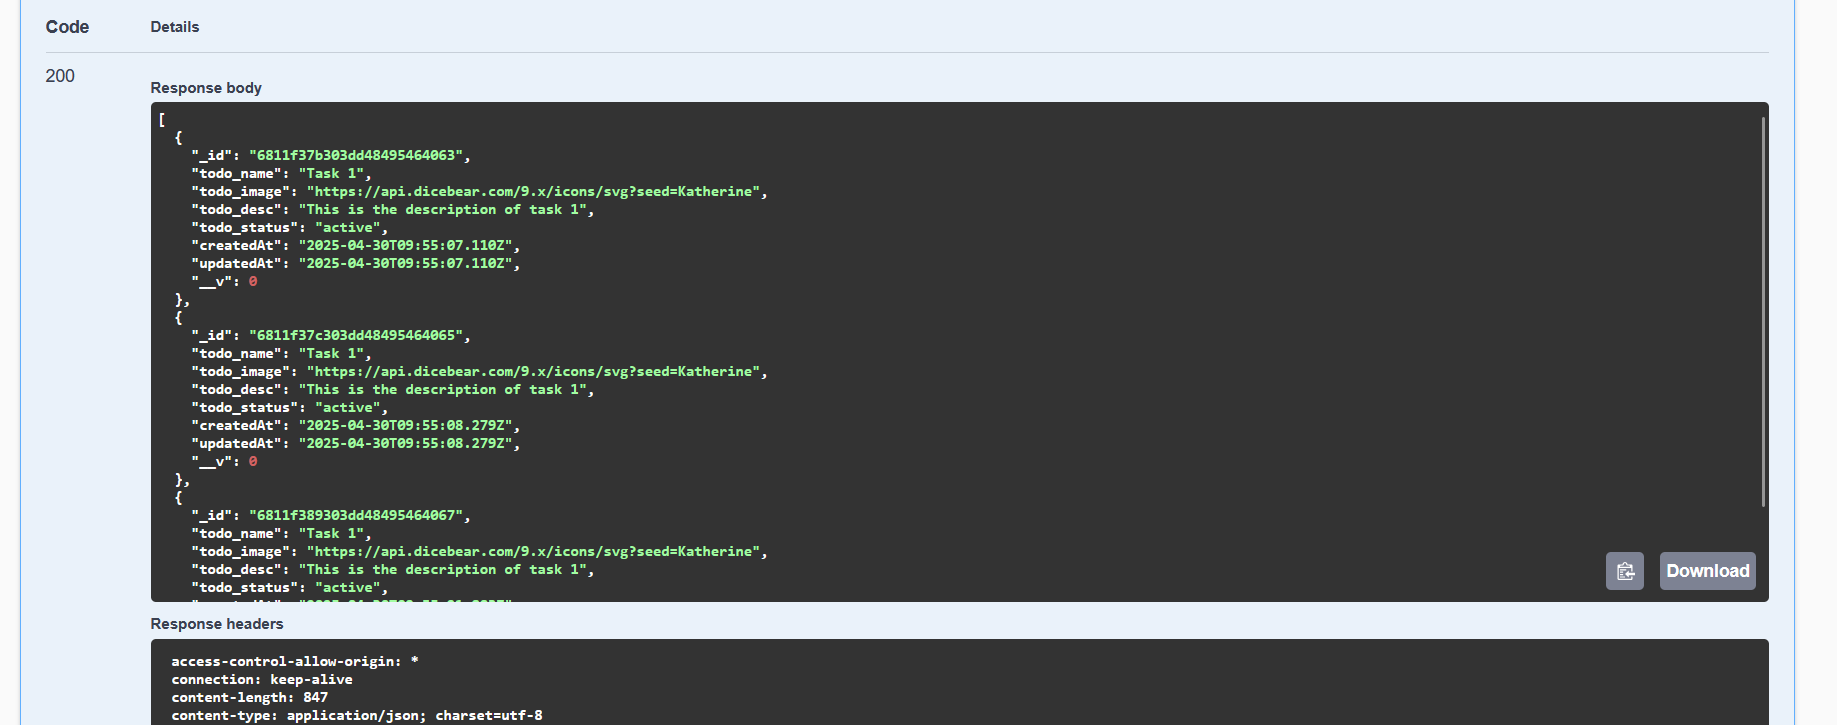
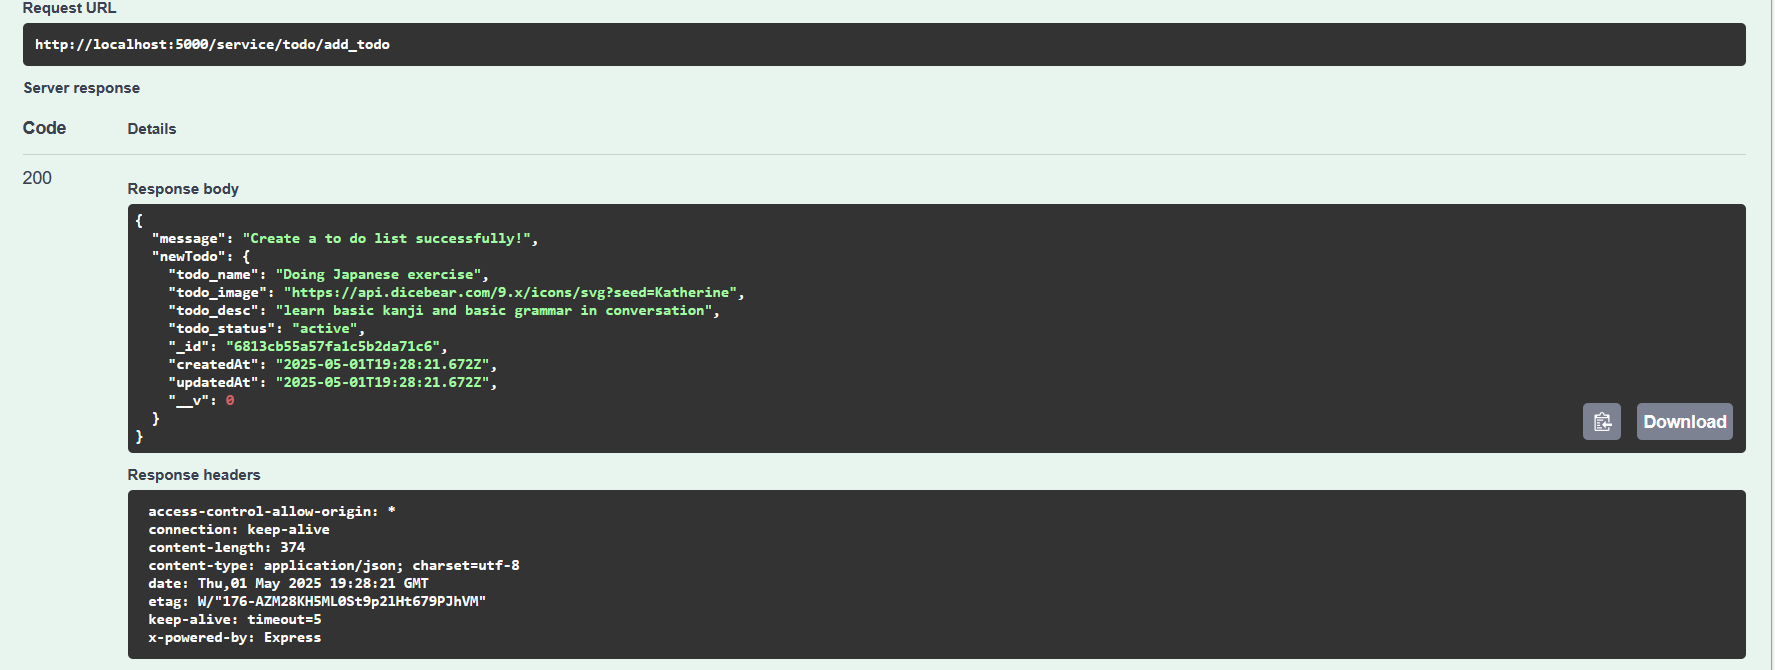
improved readme

diff --git a/README.md b/README.md
@@ -2,24 +2,27 @@
 
 - Create to do
 ![create to do](documentation/create_todo.png)
+As you can see, status is 200 and message says created sucessfully, which means the api for creating to-do list works.
 
 - Update to do
 ![update to do](documentation/update_todo.png)
+Status is 200 and message says updated sucessfully, which means the api for updating to-do list works.
 
 - Delete to do
 ![delete to do](documentation/delete_todo.png)
+Status is 200 and message says deleted sucessfully, which means the api for deleted to-do list works.
 
 - Sign in (part 1)
 ![sign in](documentation/signin(part1).png)
-
-- Sign in (part 2)
 ![sign in](documentation/signin(part2).png)
+Status is 200 and message says signed in sucessfully, which means the api for signing in works and it meets the conditions of signing in.
 
 - Sign up (part 1)
 ![sign up](documentation/signup(part1).png)
-
-- Sign up (part 2)
 ![sign up](documentation/signup(part2).png)
+Status is 200 and message says user registered successfully, which means the api for signing up works and it meets the conditions of signing up.
+
 
 - user infor
 ![user infor](documentation/user-infor.png)
+Status is 200 and JSON response shows result, which means the api for user info works, which fetches all the info of users.
